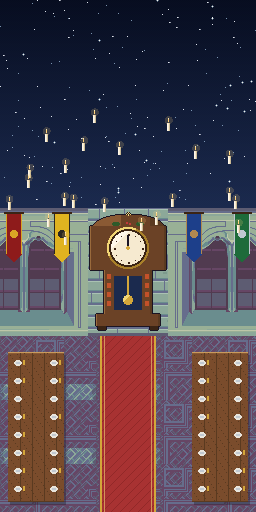
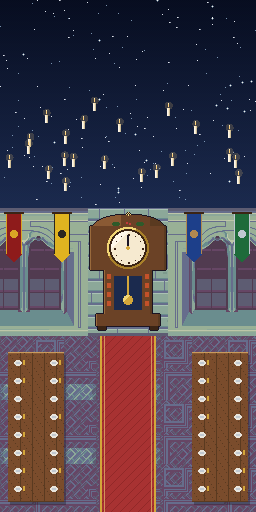
Great Hall: floating candles only in front of the sky
The candles could float down to y 250, in front of the stone wall that
starts at y 208. They now stay between y 100 and 192 under the
enchanted ceiling.

diff --git a/scripts/maps/scenes.ts b/scripts/maps/scenes.ts
@@ -282,7 +282,8 @@ export const SCENES: Record<string, (p: Picture) => void> = {
     longTable(p, 8, 352, 56, 150, 3);
     longTable(p, 192, 352, 56, 150, 4);
     const rnd = random(5);
-    for (let i = 0; i < 22; i++) p.candle(8 + rnd() * 240, 110 + rnd() * 140);
+    // floating candles only under the enchanted sky: a candle is 13 px tall, the wall starts at WALL_TOP + 8
+    for (let i = 0; i < 22; i++) p.candle(8 + rnd() * 240, 100 + rnd() * (WALL_TOP + 8 - 100 - 16));
   },
 
   staircases: (p) => {
